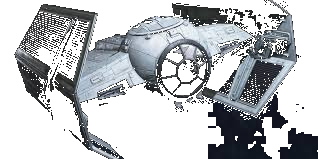
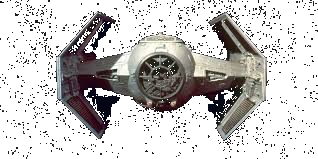
Insert image for player, enemies and background

diff --git a/videogame/scene_gameplay.py b/videogame/scene_gameplay.py
@@ -19,6 +19,10 @@ class GamePlayScene(Scene):
         self.level = level
         self.preserved_score = score
 
+        # Load and scale background to screen size
+        bg_image = pygame.image.load(assets.get("background1")).convert()
+        self.background = pygame.transform.scale(bg_image, screen.get_size())
+
         self.all_sprites = pygame.sprite.Group()
         self.enemy_group = pygame.sprite.Group()
         self.bullet_group = pygame.sprite.Group()
@@ -32,14 +36,16 @@ class GamePlayScene(Scene):
         self.bullet_img = pygame.Surface((5, 10))
         self.bullet_img.fill((255, 255, 255))
 
-        player_img = pygame.Surface((40, 30))
-        player_img.fill((0, 255, 0))
+        player_img = pygame.image.load(assets.get("player")).convert_alpha()
+        player_img = pygame.transform.scale(player_img, (50, 40))
+
         self.player = Player(
             x=screen.get_width() // 2,
             y=screen.get_height() - 40,
             speed=5,
             image=player_img
         )
+        self.player.rect.inflate_ip(-8, -4)
         self.player.hp = hp
         self.player.max_hp = 100
         self.player.score = score
@@ -50,11 +56,11 @@ class GamePlayScene(Scene):
 
         self.all_sprites.add(self.player)
 
-        enemy_img = pygame.Surface((30, 30))
-        enemy_img.fill((255, 0, 0))
+        enemy_img = pygame.image.load(assets.get("enemy")).convert_alpha()
+        enemy_img = pygame.transform.scale(enemy_img, (40, 35))
+
         enemies = generate_level(level, enemy_img, screen.get_width())
         for i, e in enumerate(enemies):
-            # Spawn off-screen to avoid popping at grid
             spawn_x = 0
             spawn_y = -100
             enemy = Enemy(
@@ -66,6 +72,7 @@ class GamePlayScene(Scene):
                 target_x=e.get("target_x", e["x"]),
                 target_y=e.get("target_y", e["y"])
             )
+            enemy.rect.inflate_ip(-6, -6)
             self.enemy_group.add(enemy)
             self.all_sprites.add(enemy)
 
@@ -150,6 +157,8 @@ class GamePlayScene(Scene):
 
     def draw(self):
         super().draw()
+        self._screen.blit(self.background, (0, 0))  # Draw background
+
         if pygame.time.get_ticks() - self.hit_flash_time < 150:
             flash_overlay = pygame.Surface(self._screen.get_size())
             flash_overlay.set_alpha(80)

diff --git a/videogame/assets.py b/videogame/assets.py
@@ -1,6 +1,5 @@
 """
-Game assets and where they are located. This is a lazy/OK solution 
-to creating a singleton class.
+Game assets and where they are located.
 """
 
 from os import path
@@ -9,23 +8,23 @@ from .galaga_asset_dict import galaga_asset_dict as asset_dict
 # Get absolute path to this file's directory
 main_dir = path.split(path.abspath(__file__))[0]
 
-# Set path to the top-level "music" directory (outside /videogame/)
-data_dir = path.abspath(path.join(main_dir, "..", "music"))
-
 def get(key):
     """
     Given the key representing the asset, return a fully qualified path to the asset.
+    Supports both 'music/' and 'ships/' assets.
     """
     try:
-        filename = asset_dict[key]
+        relative_path = asset_dict[key]
     except KeyError:
         print(f'Unknown asset key: "{key}"')
         raise
 
-    full_path = path.join(data_dir, filename)
+    # Get the top-level project directory
+    project_dir = path.abspath(path.join(main_dir, ".."))
 
-    # Ensure asset file exists
+    # Build full path to the asset (e.g., ships/player.png or music/gameplay.wav)
+    full_path = path.join(project_dir, relative_path)
+
     assert path.exists(full_path), f"Asset not found: {full_path}"
-
     return full_path
 

diff --git a/videogame/galaga_asset_dict.py b/videogame/galaga_asset_dict.py
@@ -1,10 +1,21 @@
 galaga_asset_dict = {
-    "title": "title.wav",
-    "gameplay": "gameplay.wav",
-    "win": "win.wav",
-    "lose": "lose.wav",
-    "enemy_fire": "enemy_fire.wav",
-    "player_fire": "player_fire.wav",
-    "dive": "dive.wav",  
+    # Sprites
+    "player": "ships/player.png",
+    "enemy": "ships/enemy.png",
+
+    # Sound effects
+    "enemy_fire": "music/enemy_fire.wav",
+    "player_fire": "music/player_fire.wav",
+    "dive": "music/dive.wav",
+
+    # Background music
+    "title": "music/title.wav",
+    "gameplay": "music/gameplay.wav",
+    "win": "music/win.wav",
+    "lose": "music/lose.wav",
+    
+    # Background of screen
+    "background1": "background/space.jpeg",
 }
+
 
